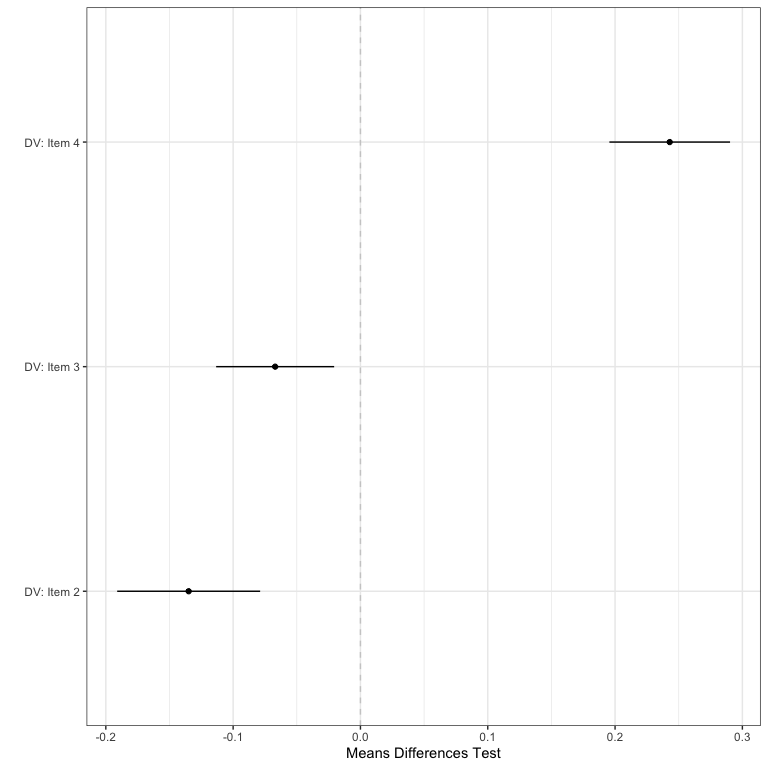
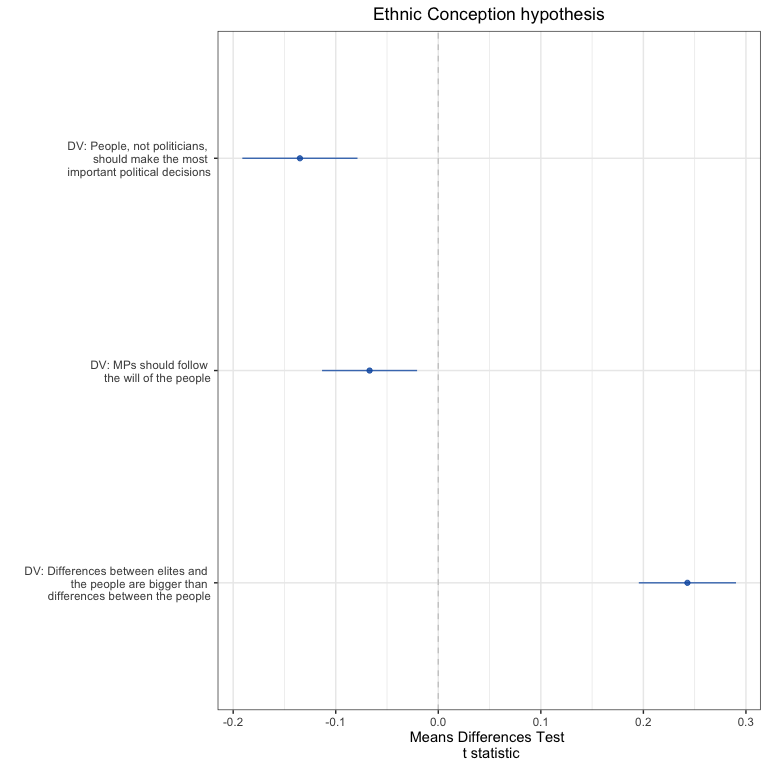
add data analysis

diff --git a/src/analysis/analyses.md b/src/analysis/analyses.md
@@ -65,6 +65,11 @@ p1
 
 <img src="../../report/figures/h1-1.png" style="display: block; margin: auto;" />
 
+``` r
+# negative values: Ethnic conception > Civic conception 
+# positive values: Ethnic conception < Civic conception 
+```
+
 ## National Identity Hypothesis
 
 ``` r
